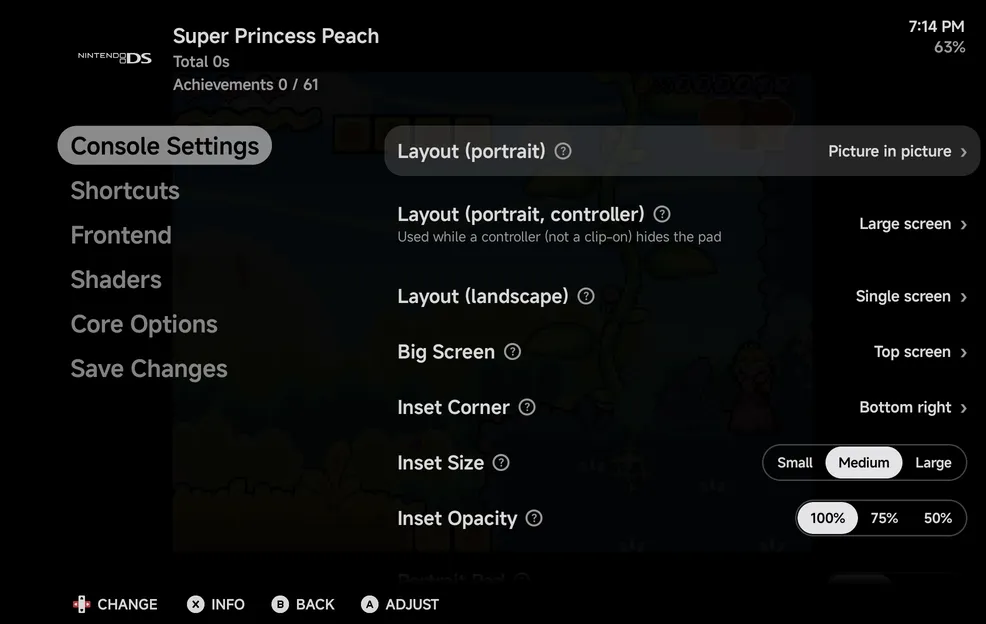
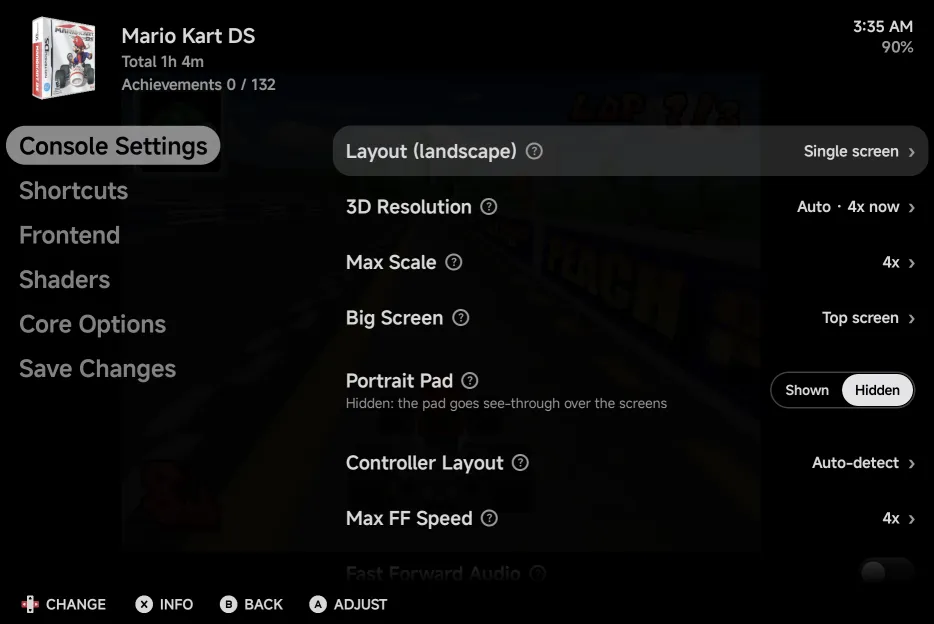
Mobile: DS 3D Resolution, in-game Console Settings and Core Options (#54)

diff --git a/docs/mobile/emulators/nintendo-ds.md b/docs/mobile/emulators/nintendo-ds.md
@@ -72,13 +72,23 @@ Settings**, and for the console in
 value; keep it for the game or the console with
 [Save Changes](../in-game-menu.md#save-changes).
 
-![Console Settings of Super Princess Peach on DS: the three Layout rows, Big Screen, Inset Corner and Inset Size](../../assets/screenshots/mobile/ds-console-settings.webp){ .nx-wide }
+In a game the page lists only the **Layout** row in use, for the way you're
+holding the phone (**Layout (portrait, controller)** while a controller hides
+the pad), and **Inset Corner**, **Inset Size** and **Inset Opacity** only
+while that layout is **Picture in picture**. Turn the phone or pick another layout and the rows follow.
+Emulator Settings and Game Settings list every row, so you can set up each
+orientation there.
+
+![Console Settings in Mario Kart DS on the Fold's cover screen: the landscape Layout row, 3D Resolution at Auto · 4x now with Max Scale, Big Screen and Portrait Pad](../../assets/screenshots/mobile/ds-console-settings.webp){ .nx-wide }
 
 | Row | Values | Default | See |
 | --- | --- | --- | --- |
 | **Layout (portrait)** | Large screen, Stacked, Single screen, Picture in picture, Side by side | Large screen | [Screen layouts](#screen-layouts) |
 | **Layout (portrait, controller)** | The same | Large screen | [Screen layouts](#screen-layouts) |
 | **Layout (landscape)** | The same; no Side by side on a [squarer screen](#which-layout-by-default) | Depends on the screen | [Screen layouts](#screen-layouts) |
+| **3D Resolution** | Auto, Quality, Performance | Auto | [3D rendering](#3d-rendering) |
+| **Max Scale** | 1x up to what the display can show (shown in Auto only) | 4x | [3D rendering](#3d-rendering) |
+| **Scale** | 1x up to half of the most the display can show, rounded up (shown in Performance only) | 2x | [3D rendering](#3d-rendering) |
 | **Big Screen** | Top screen, Bottom screen | Top screen | [Big screen and inset](#big-screen-and-inset) |
 | **Inset Corner** | Top left, Top right, Bottom left, Bottom right | Top right | [Big screen and inset](#big-screen-and-inset) |
 | **Inset Size** | Small, Medium, Large | Medium | [Big screen and inset](#big-screen-and-inset) |
@@ -313,13 +323,33 @@ DS screens side by side on the other screen. See
 
 ## 3D rendering
 
-**Internal Resolution** in **Core Options → Video** upscales 3D: 1× to 8×, 2×
-by default. Some games slow down at 4× or higher.
+**3D Resolution** in [Console Settings](#console-settings) sets how sharply
+3D models are drawn. 2D art, text and the screen's size don't change.
+
+| Mode | What it does |
+| --- | --- |
+| **Auto** | Draws the 3D at the size the bigger screen is shown, up to **Max Scale** (4x by default). |
+| **Quality** | The same with no cap: as sharp as the display can show. |
+| **Performance** | A fixed **Scale**, from 1x up to half of the most the display can show. 2x by default. |
+
+**Max Scale** shows only in Auto and **Scale** only in Performance. A higher
+scale is sharper but slower: if a game stutters, try Performance at a lower
+**Scale**.
+
+In a game the row reads like **Auto · 6x now** in Auto and Quality, the scale in use (Performance shows its **Scale**). It follows
+turning the phone, folding it and changing the layout, straight away.
 
 ??? info "More detail"
+    - The lists follow the display: a phone tops out lower than the unfolded
+      Galaxy Z Fold. The core's own limit is 8x.
     - 3D renders on the GPU on devices with OpenGL ES 3.2, else in software.
-    - Internal Resolution works with the GPU renderer only. The 2D layers stay
-      at native resolution.
+    - In Software **Render Mode** the rows can't be changed and show **Needs
+      Render Mode → OpenGL** (greyed in Emulator Settings and Game Settings):
+      melonDS's software renderer doesn't use the setting.
+    - melonDS's own **Internal Resolution** and its unused screen options
+      (for example Secondary Screen Scale and Filtering, OpenGL Filtering, Screen
+      Layout #2 to #8, the Hybrid options, Cursor Timeout, Show Screen Layout) no longer appear in Core
+      Options: the app sets the resolution and draws the screens itself.
     - A **Render Mode** change in Core Options applies the next time the game
       starts, once you keep it with Save Changes.
     - If the GPU renderer can't start, the game runs in software and the app

diff --git a/docs/mobile/in-game-menu.md b/docs/mobile/in-game-menu.md
@@ -348,7 +348,9 @@ as you make it.
 
     These rows open adjust mode: **Screen Scaling**, **Screen Sharpness**,
     **Overlay**, **Offset screen X** and **Y**, **Shader**, each shader
-    parameter, and the Nintendo DS screen rows in **Console Settings**.
+    parameter, and the Nintendo DS **Layout**, **Big Screen** and inset rows in
+    **Console Settings** (not **3D Resolution**: the paused game draws no new
+    frame, so its change shows when you go back to the game).
 
 ## Options rows
 
@@ -377,7 +379,10 @@ The pages scroll smoothly as you move.
 
 The running core's own settings, grouped into the core's categories.
 `LEFT` / `RIGHT` change a value. Only options that can change while the game
-runs are listed.
+runs are listed, and a line at the top says so. The rest apply when a game
+starts: set them in the game's [Game Settings](emulator-settings.md#game-settings),
+or for every game in **Tools → Settings → Emulation → Default settings**
+([Emulator Settings](emulator-settings.md)).
 
 ??? info "More detail"
 

diff --git a/docs/reference/release-notes/mobile.md b/docs/reference/release-notes/mobile.md
@@ -52,6 +52,11 @@ you to blow or shout.
 
 ### Improvements
 
+- **DS 3D Resolution.** A new Console Settings row for DS games: **Auto**
+  draws 3D at the size the screen is shown (up to **Max Scale**),
+  **Quality** has no cap, and **Performance** uses a fixed **Scale**.
+  melonDS's own Internal Resolution and unused screen options are gone. See
+  [3D rendering](../../mobile/emulators/nintendo-ds.md#3d-rendering).
 - **Portrait band.** The pad band is the same height in the menu and in a
   game. With the band hidden (DS, 3DS, and tall arcade, WonderSwan and Lynx
   games), one see-through pad lies across the bottom, and the New 3DS
